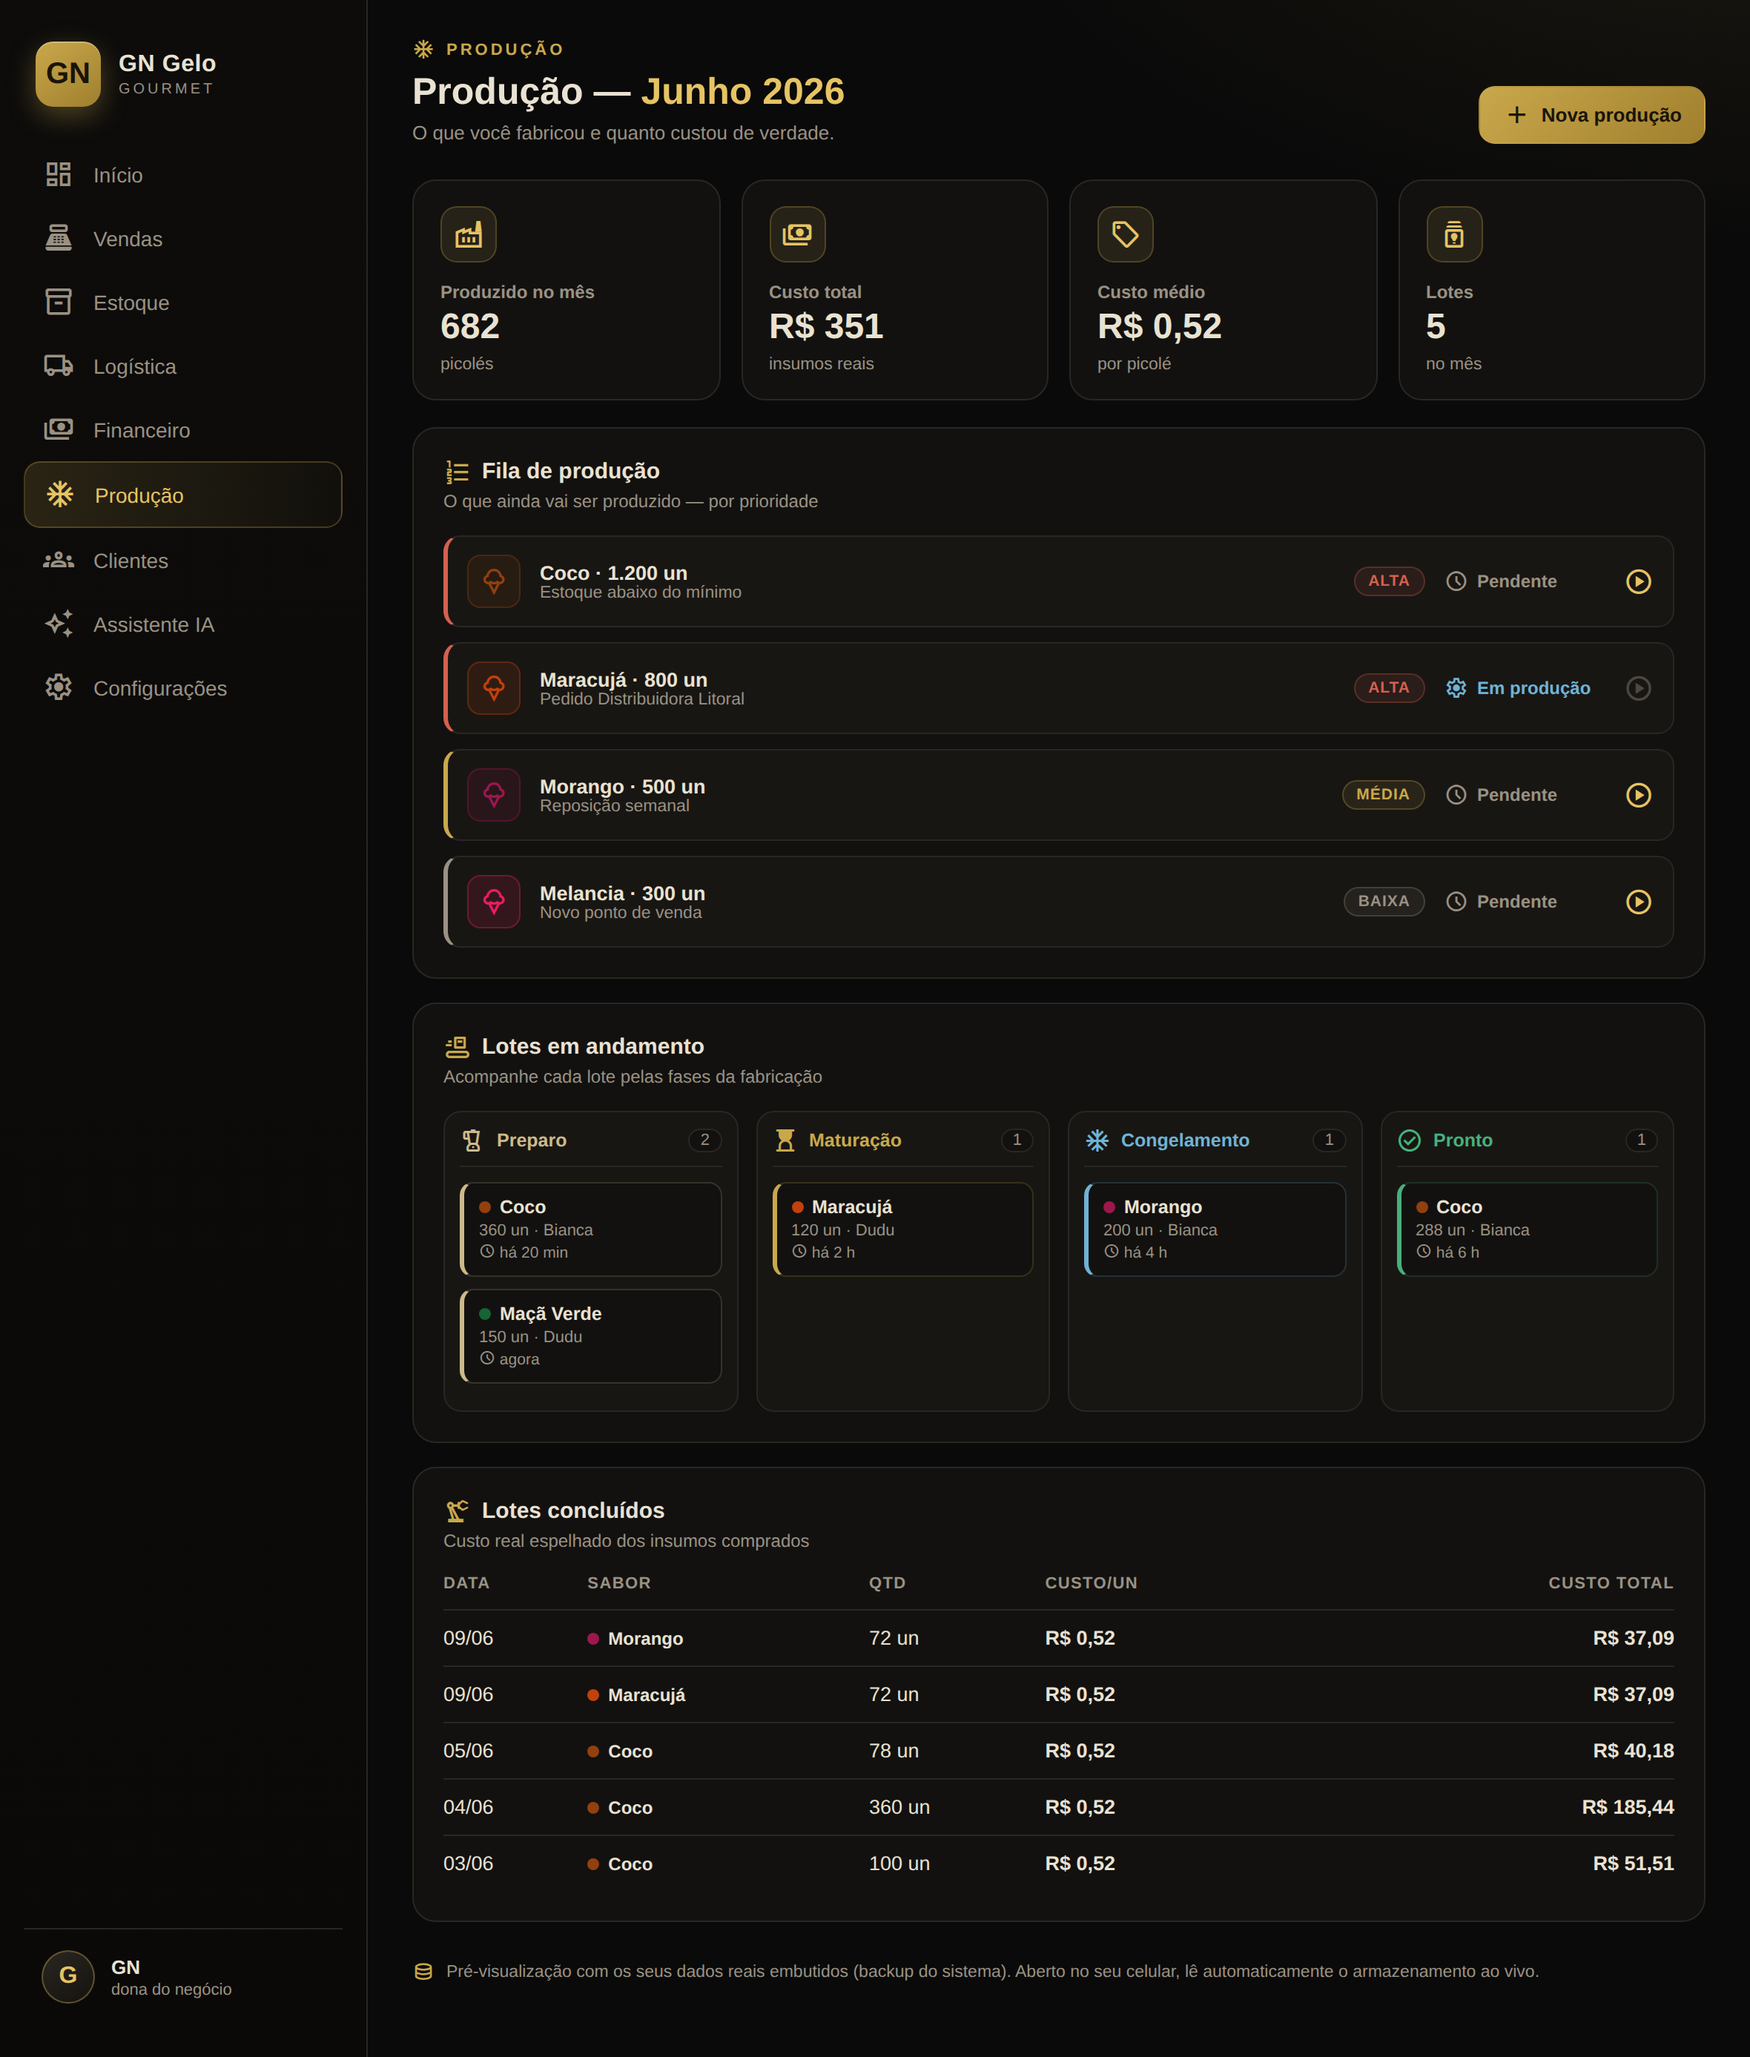
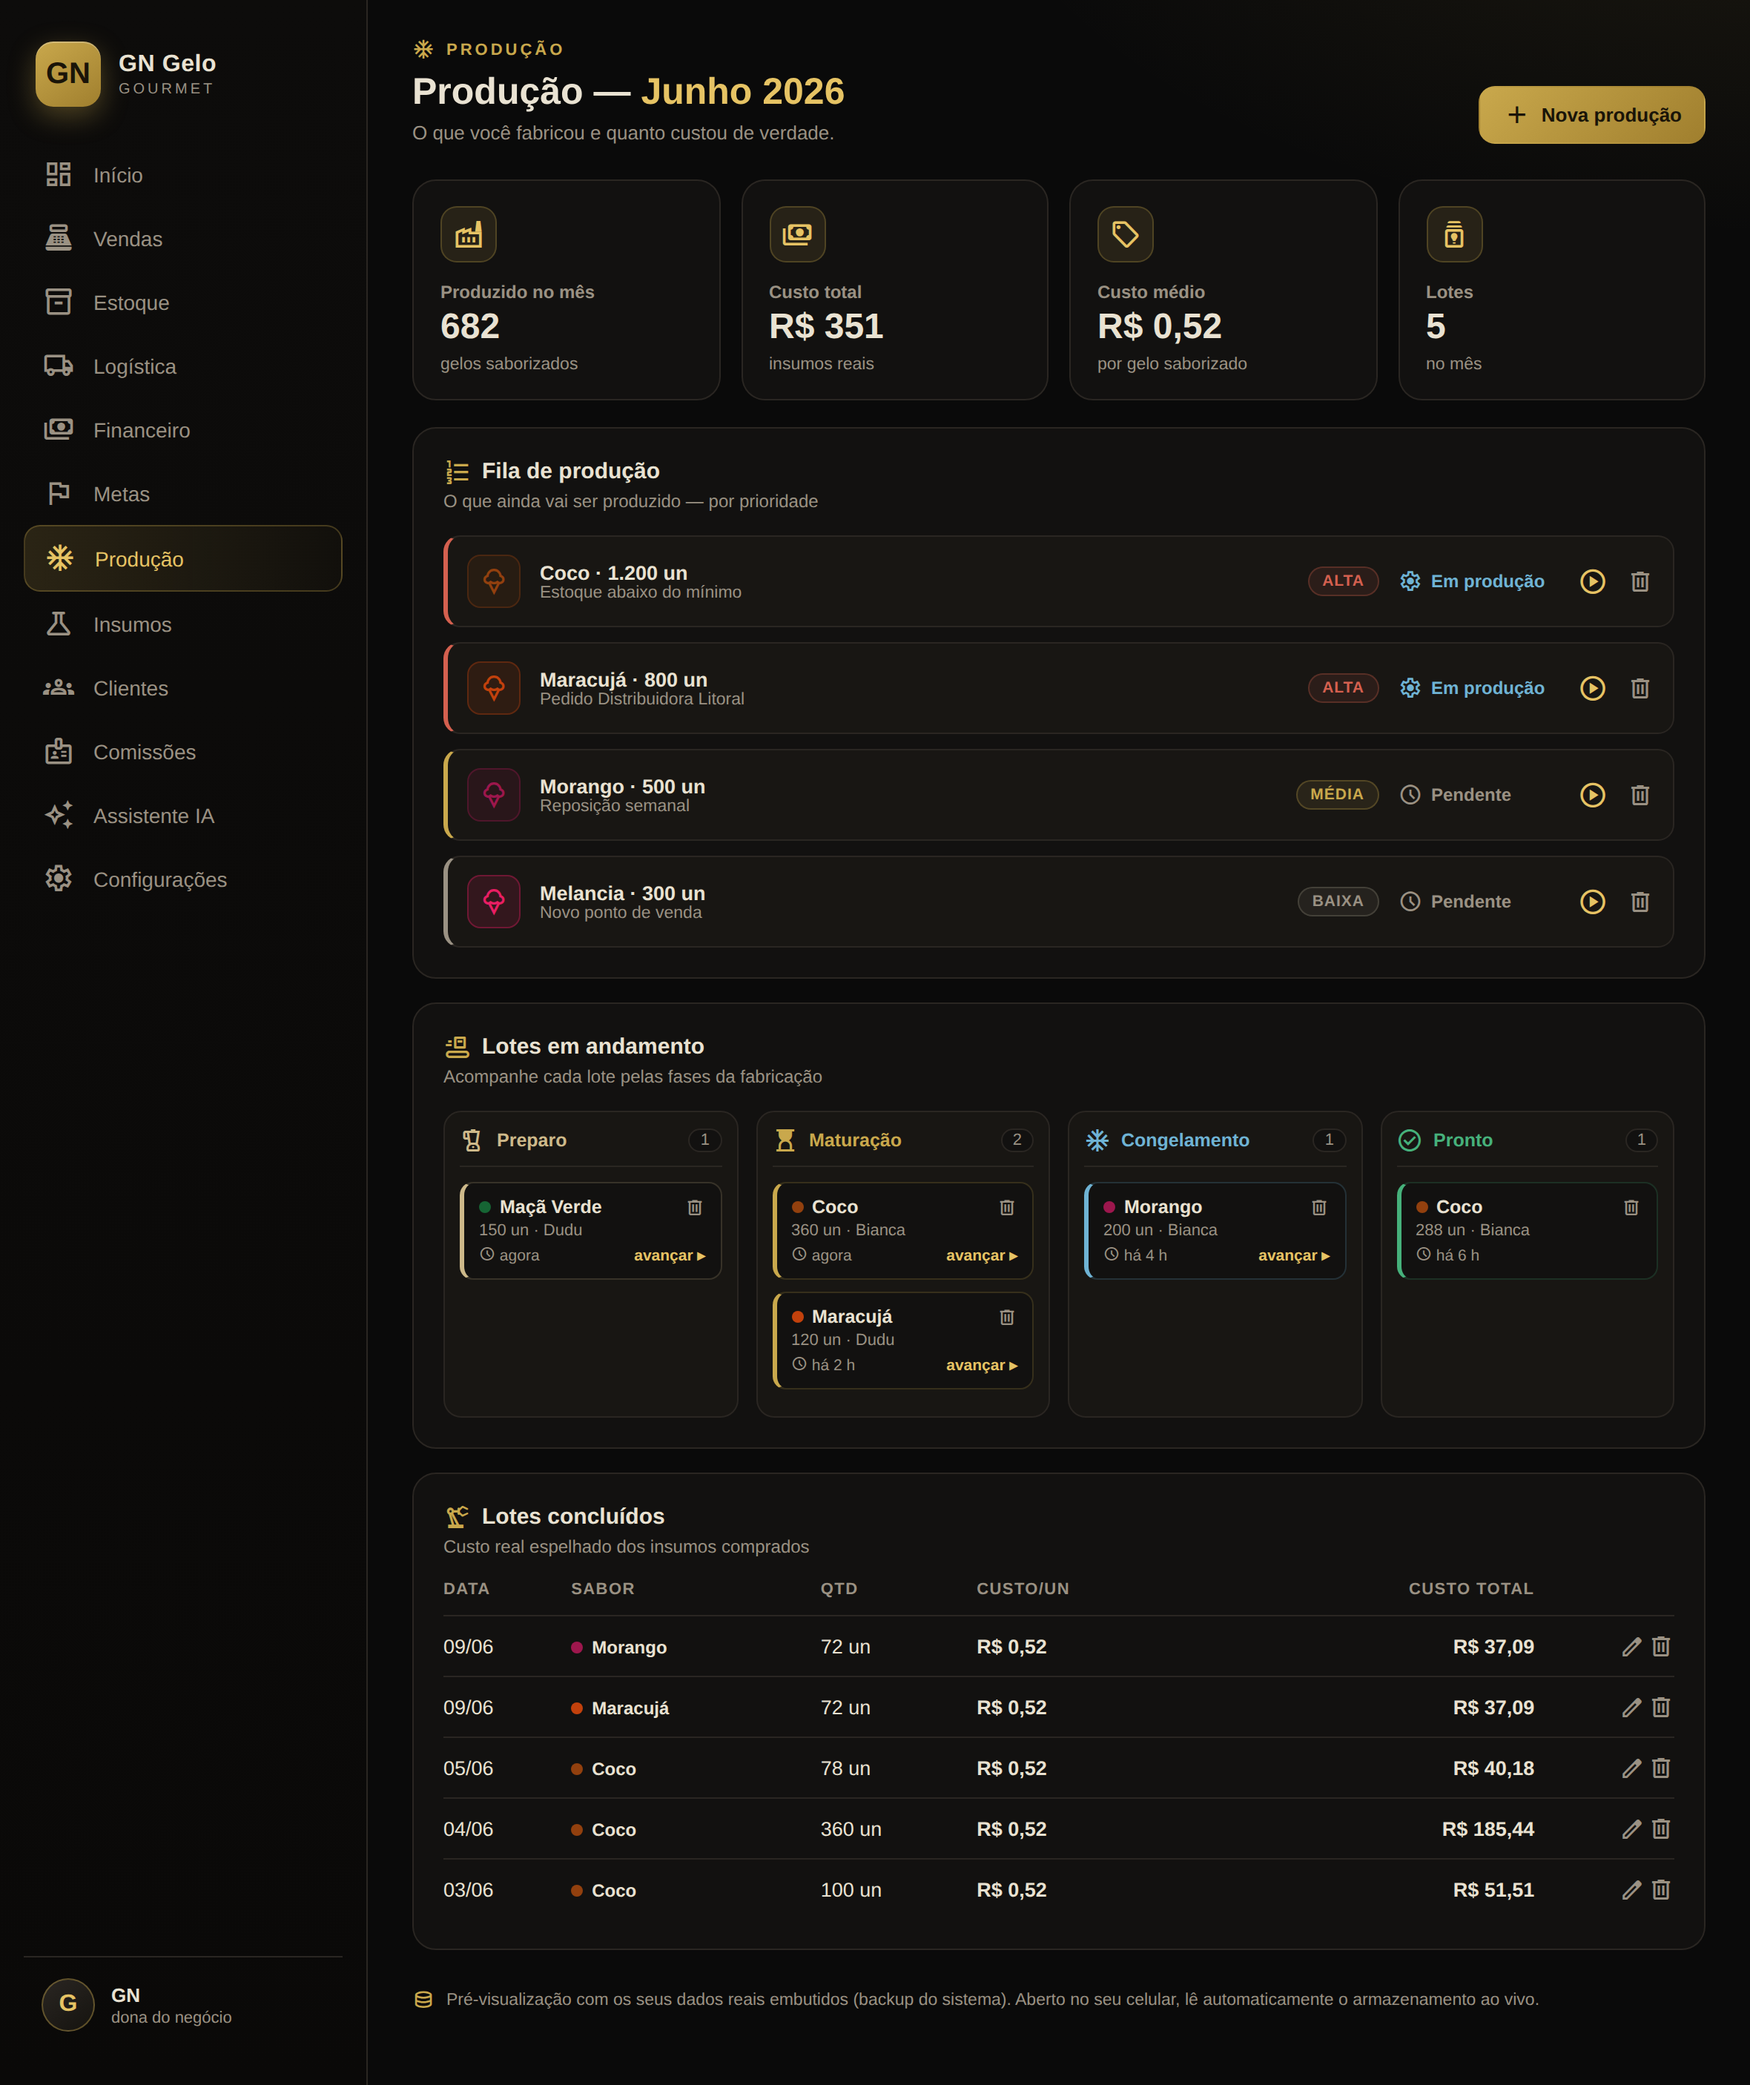
Editar/apagar e acoes nas listas menores: vendedor, equipe, ordens, lotes
- Vendedor: editar (nome/comissao) e apagar.
- Equipe: bloquear/liberar acesso (funcional) e remover integrante.
- Ordens de producao: avancar status (Pendente->Em producao->Concluida) e apagar.
- Lotes em andamento: avancar fase e apagar.
- Ids garantidos para equipe/ordens/lotes.

Claude-Session: https://claude.ai/code/session_01RocrFdSgqpqjfRy7x3VDmm

diff --git a/preview-dashboard-premium.html b/preview-dashboard-premium.html
@@ -507,7 +507,7 @@
       <h3><span class="sym">leaderboard</span>Comissão por vendedor</h3>
       <div class="csub">Calculada sobre o faturamento de cada um no mês</div>
       <table>
-        <thead><tr><th>Vendedor</th><th>Vendas</th><th>Faturou</th><th>%</th><th style="text-align:right">Comissão</th></tr></thead>
+        <thead><tr><th>Vendedor</th><th>Vendas</th><th>Faturou</th><th>%</th><th style="text-align:right">Comissão</th><th></th></tr></thead>
         <tbody id="cm-tab"></tbody>
       </table>
     </div>
@@ -810,7 +810,7 @@ const PAPEIS={
 const get=(k,d)=>{try{const v=localStorage.getItem("gng_"+k);return v?JSON.parse(v):d;}catch{return d;}};
 const set=(k,v)=>{try{localStorage.setItem("gng_"+k,JSON.stringify(v));localStorage.setItem("gng__local_updated",new Date().toISOString());}catch(e){}};
 // garante id em todo registro de exemplo (pra poder apagar)
-[["vendas",9000001],["producoes",9100001],["gastos",9200001]].forEach(([k,base])=>(SEED[k]||[]).forEach((o,i)=>{if(o.id==null)o.id=base+i;}));
+[["vendas",9000001],["producoes",9100001],["gastos",9200001],["equipe",9300001],["ordens",9400001],["lotesAndamento",9500001]].forEach(([k,base])=>(SEED[k]||[]).forEach((o,i)=>{if(o.id==null)o.id=base+i;}));
 function getV(){const v=get("vendas",null);return (v&&v.length)?v:SEED.vendas;}
 function getPr(){const v=get("producoes",null);return (v&&v.length)?v:SEED.producoes;}
 function getEst(){const v=get("estoque",null);return v||SEED.estoque;}
@@ -819,6 +819,8 @@ function getEnt(){const v=get("entregas",null);return (v&&v.length)?v:SEED.entre
 function getEquipe(){const v=get("equipe",null);return (v&&v.length)?v:SEED.equipe;}
 function getInsE(){const v=get("insumoEst",null);return (v&&Object.keys(v).length)?v:SEED.insumoEst;}
 function getVendedores(){const v=get("vendedores",null);return (v&&v.length)?v:SEED.vendedores;}
+function getOrdens(){const v=get("ordens",null);return (v&&v.length)?v:SEED.ordens;}
+function getLotes(){const v=get("lotesAndamento",null);return (v&&v.length)?v:SEED.lotesAndamento;}
 function fillVendedores(sel,val){const vs=getVendedores();sel.innerHTML='<option value="">Venda direta (sem comissão)</option>'+vs.map(v=>`<option value="${v.id}">${v.nome} (${v.com}%)</option>`).join("");if(val)sel.value=val;}
 // Quanto cada gelo saborizado consome de cada insumo (receita real); açúcar entra no custo base
 const RECEITA={"Base/Aroma":2,"Glicose":5,"Goma Xantana":0.08,"Embalagens":1};
@@ -1040,11 +1042,13 @@ function renderProducao(){
       </div>
       <span style="font-size:10.5px;font-weight:800;letter-spacing:.5px;color:${pc};background:${pc}1a;border:1px solid ${pc}44;border-radius:999px;padding:3px 9px">${o.prioridade}</span>
       <span class="tag" style="color:${st.cor};min-width:108px"><span class="sym" style="font-size:16px">${st.ic}</span>${o.status}</span>
-      <span class="sym" style="font-size:20px;color:${podeIniciar?'var(--gold-soft)':'var(--muted)'};cursor:pointer;opacity:${podeIniciar?1:.4}" title="${podeIniciar?'Iniciar produção':'Já iniciada'}">play_circle</span>
+      <span class="sym" onclick="avancarOrdem('${o.id}')" style="font-size:20px;color:${o.status!=='Concluída'?'var(--gold-soft)':'var(--muted)'};cursor:${o.status!=='Concluída'?'pointer':'default'};opacity:${o.status!=='Concluída'?1:.4}" title="${o.status==='Pendente'?'Iniciar produção':o.status==='Em produção'?'Concluir':'Concluída'}">${o.status==='Concluída'?'check_circle':'play_circle'}</span>
+      ${lixo("delOrdem('"+o.id+"')")}
     </div>`;
   }).join("");
   // Quadro de fases (lotes em andamento)
-  const lotes=(get("lotesAndamento",null)&&get("lotesAndamento",[]).length)?get("lotesAndamento",[]):SEED.lotesAndamento;
+  const lotes=getLotes();
+  const ultimaFase=FASES[FASES.length-1].nome;
   document.getElementById("pr-kanban").innerHTML=FASES.map(f=>{
     const itens=lotes.filter(l=>l.fase===f.nome);
     return `<div style="background:var(--panel2);border:1px solid var(--line);border-radius:12px;padding:10px;min-height:120px">
@@ -1054,9 +1058,12 @@ function renderProducao(){
         <span style="margin-left:auto;font-size:11px;color:var(--muted);background:var(--panel);border:1px solid var(--line);border-radius:999px;padding:1px 7px">${itens.length}</span>
       </div>
       ${itens.map(l=>`<div style="background:var(--panel);border:1px solid ${f.cor}33;border-left:3px solid ${f.cor};border-radius:9px;padding:9px 10px;margin-bottom:8px">
-        <div style="display:flex;align-items:center;gap:6px;font-size:12.5px;font-weight:700"><span class="dot" style="background:${CC[l.sabor]||'#888'}"></span>${SB[l.sabor]||l.sabor}</div>
+        <div style="display:flex;align-items:center;gap:6px"><span class="dot" style="background:${CC[l.sabor]||'#888'}"></span><span style="font-size:12.5px;font-weight:700;flex:1">${SB[l.sabor]||l.sabor}</span><span class="sym" onclick="delLote('${l.id}')" style="font-size:14px;color:var(--muted);cursor:pointer" title="Apagar">delete</span></div>
         <div style="font-size:11px;color:var(--muted);margin-top:3px">${l.qtd} un · ${l.resp}</div>
-        <div style="font-size:10.5px;color:var(--muted);margin-top:2px"><span class="sym" style="font-size:11px;vertical-align:-1px">schedule</span> ${l.ha}</div>
+        <div style="display:flex;align-items:center;justify-content:space-between;margin-top:4px">
+          <span style="font-size:10.5px;color:var(--muted)"><span class="sym" style="font-size:11px;vertical-align:-1px">schedule</span> ${l.ha}</span>
+          ${l.fase!==ultimaFase?`<span onclick="avancarLote('${l.id}')" style="font-size:10.5px;font-weight:700;color:var(--gold-soft);cursor:pointer">avançar ▸</span>`:''}
+        </div>
       </div>`).join("")||'<div style="font-size:11px;color:var(--muted);opacity:.6;text-align:center;padding:14px 0">—</div>'}
     </div>`;
   }).join("");
@@ -1259,7 +1266,7 @@ function renderConfig(){
       <td>${e.area}</td>
       <td><span class="tag" style="color:${p.cor};font-weight:700"><span class="sym" style="font-size:16px">${p.ic}</span>${e.papel}</span></td>
       <td><span class="tag" style="color:${ativo?'var(--green)':'var(--red)'}"><span class="dot" style="background:${ativo?'var(--green)':'var(--red)'}"></span>${e.status}</span></td>
-      <td style="text-align:right"><span class="sym" style="font-size:18px;color:${ativo?'var(--red)':'var(--green)'};cursor:pointer" title="${ativo?'Bloquear acesso':'Liberar acesso'}">${ativo?'block':'lock_open'}</span></td>
+      <td style="text-align:right;white-space:nowrap"><span class="sym" style="font-size:18px;color:${ativo?'var(--red)':'var(--green)'};cursor:pointer;margin-right:6px" onclick="toggleBloqueio('${e.id}')" title="${ativo?'Bloquear acesso':'Liberar acesso'}">${ativo?'block':'lock_open'}</span>${e.papel!=="Administrador"?lixo("delIntegrante('"+e.id+"')"):""}</td>
     </tr>`;
   }).join("");
   document.getElementById("cf-papeis").innerHTML=Object.entries(PAPEIS).map(([nome,p])=>`
@@ -1661,16 +1668,31 @@ function renderComissoes(){
   document.getElementById("cm-tab").innerHTML=lista.map(v=>`
     <tr><td><span class="tag"><span style="width:26px;height:26px;border-radius:50%;display:inline-grid;place-items:center;background:rgba(201,168,76,.18);border:1px solid rgba(201,168,76,.4);color:var(--gold-soft);font-weight:700;font-size:11px">${(v.nome||"?")[0]}</span> <b>${v.nome}</b></span></td>
     <td>${v.n}</td><td class="money">${R0(v.fat)}</td><td>${v.com}%</td>
-    <td class="money pos" style="text-align:right">${R(v.comissao)}</td></tr>`).join("")
-    ||'<tr><td colspan="5" class="csub" style="padding-top:14px">Nenhum vendedor cadastrado.</td></tr>';
+    <td class="money pos" style="text-align:right">${R(v.comissao)}</td><td style="text-align:right;white-space:nowrap">${lapis("editarVendedor('"+v.id+"')")}${lixo("delVendedor('"+v.id+"')")}</td></tr>`).join("")
+    ||'<tr><td colspan="6" class="csub" style="padding-top:14px">Nenhum vendedor cadastrado.</td></tr>';
 }
-function abrirVendedor(){ document.getElementById("vd-nome").value=""; document.getElementById("vd-com").value=5; document.getElementById("modal-vendedor").style.display="flex"; }
+var EDIT_VD=null;
+function abrirVendedor(){ EDIT_VD=null; document.querySelector("#modal-vendedor h3").textContent="Novo vendedor"; document.getElementById("vd-nome").value=""; document.getElementById("vd-com").value=5; document.getElementById("modal-vendedor").style.display="flex"; }
+function editarVendedor(id){ const v=getVendedores().find(x=>x.id===id); if(!v)return; EDIT_VD=id; document.querySelector("#modal-vendedor h3").textContent="Editar vendedor"; document.getElementById("vd-nome").value=v.nome; document.getElementById("vd-com").value=v.com; document.getElementById("modal-vendedor").style.display="flex"; }
 function salvarVendedor(){
   const nome=document.getElementById("vd-nome").value.trim(); if(!nome){alert("Informe o nome.");return;}
+  const com=+document.getElementById("vd-com").value||0;
   const vds=get("vendedores",null)||SEED.vendedores.slice();
-  vds.push({id:"v"+Date.now(),nome,com:+document.getElementById("vd-com").value||0});
+  if(EDIT_VD!=null){ const i=vds.findIndex(x=>x.id===EDIT_VD); if(i>=0)vds[i]={...vds[i],nome,com}; EDIT_VD=null; }
+  else vds.push({id:"v"+Date.now(),nome,com});
   set("vendedores",vds); fecharModal(); rerenderAll(); show("comissoes");
 }
+function delVendedor(id){ if(!confirm("Apagar este vendedor? As comissões dele saem do cálculo."))return; const vds=get("vendedores",null)||SEED.vendedores.slice(); set("vendedores",vds.filter(x=>x.id!==id)); rerenderAll(); }
+/* Equipe (bloquear/liberar/apagar) */
+function toggleBloqueio(id){ const eq=get("equipe",null)||SEED.equipe.slice(); const e=eq.find(x=>x.id==id); if(!e)return; e.status=e.status==="Ativo"?"Bloqueado":"Ativo"; set("equipe",eq); rerenderAll(); }
+function delIntegrante(id){ if(!confirm("Remover este integrante?"))return; const eq=get("equipe",null)||SEED.equipe.slice(); set("equipe",eq.filter(x=>x.id!=id)); rerenderAll(); }
+/* Ordens de produção (avançar/apagar) */
+const ORD_NEXT={"Pendente":"Em produção","Em produção":"Concluída","Concluída":"Concluída"};
+function avancarOrdem(id){ const o=get("ordens",null)||SEED.ordens.slice(); const x=o.find(y=>y.id==id); if(!x)return; x.status=ORD_NEXT[x.status]||x.status; set("ordens",o); rerenderAll(); }
+function delOrdem(id){ if(!confirm("Apagar esta ordem de produção?"))return; const o=get("ordens",null)||SEED.ordens.slice(); set("ordens",o.filter(y=>y.id!=id)); rerenderAll(); }
+/* Lotes em andamento (avançar fase/apagar) */
+function avancarLote(id){ const ls=get("lotesAndamento",null)||SEED.lotesAndamento.slice(); const x=ls.find(y=>y.id==id); if(!x)return; const fases=FASES.map(f=>f.nome); const i=fases.indexOf(x.fase); x.fase=fases[Math.min(i+1,fases.length-1)]; x.ha="agora"; set("lotesAndamento",ls); rerenderAll(); }
+function delLote(id){ if(!confirm("Apagar este lote em andamento?"))return; const ls=get("lotesAndamento",null)||SEED.lotesAndamento.slice(); set("lotesAndamento",ls.filter(y=>y.id!=id)); rerenderAll(); }
 
 /* ===== TELA METAS ===== */
 function getMetas(){return get("metas",null)||{};}
